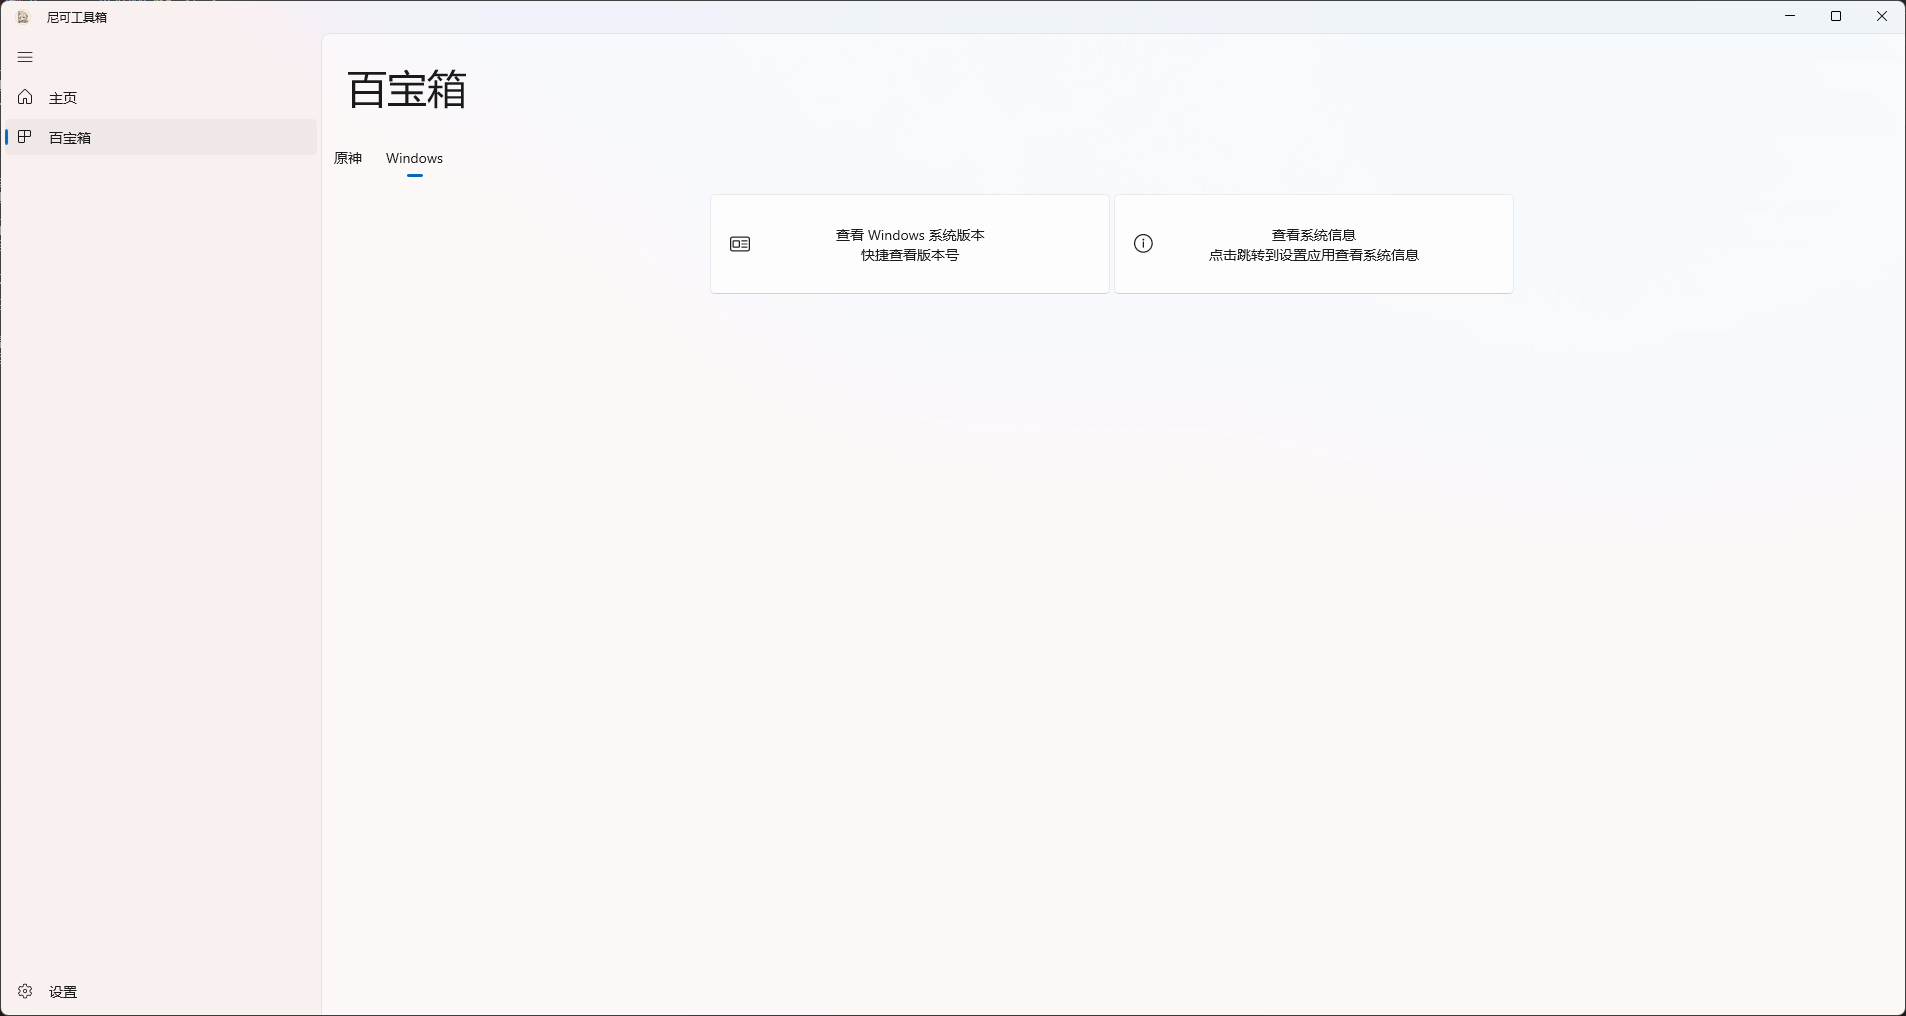
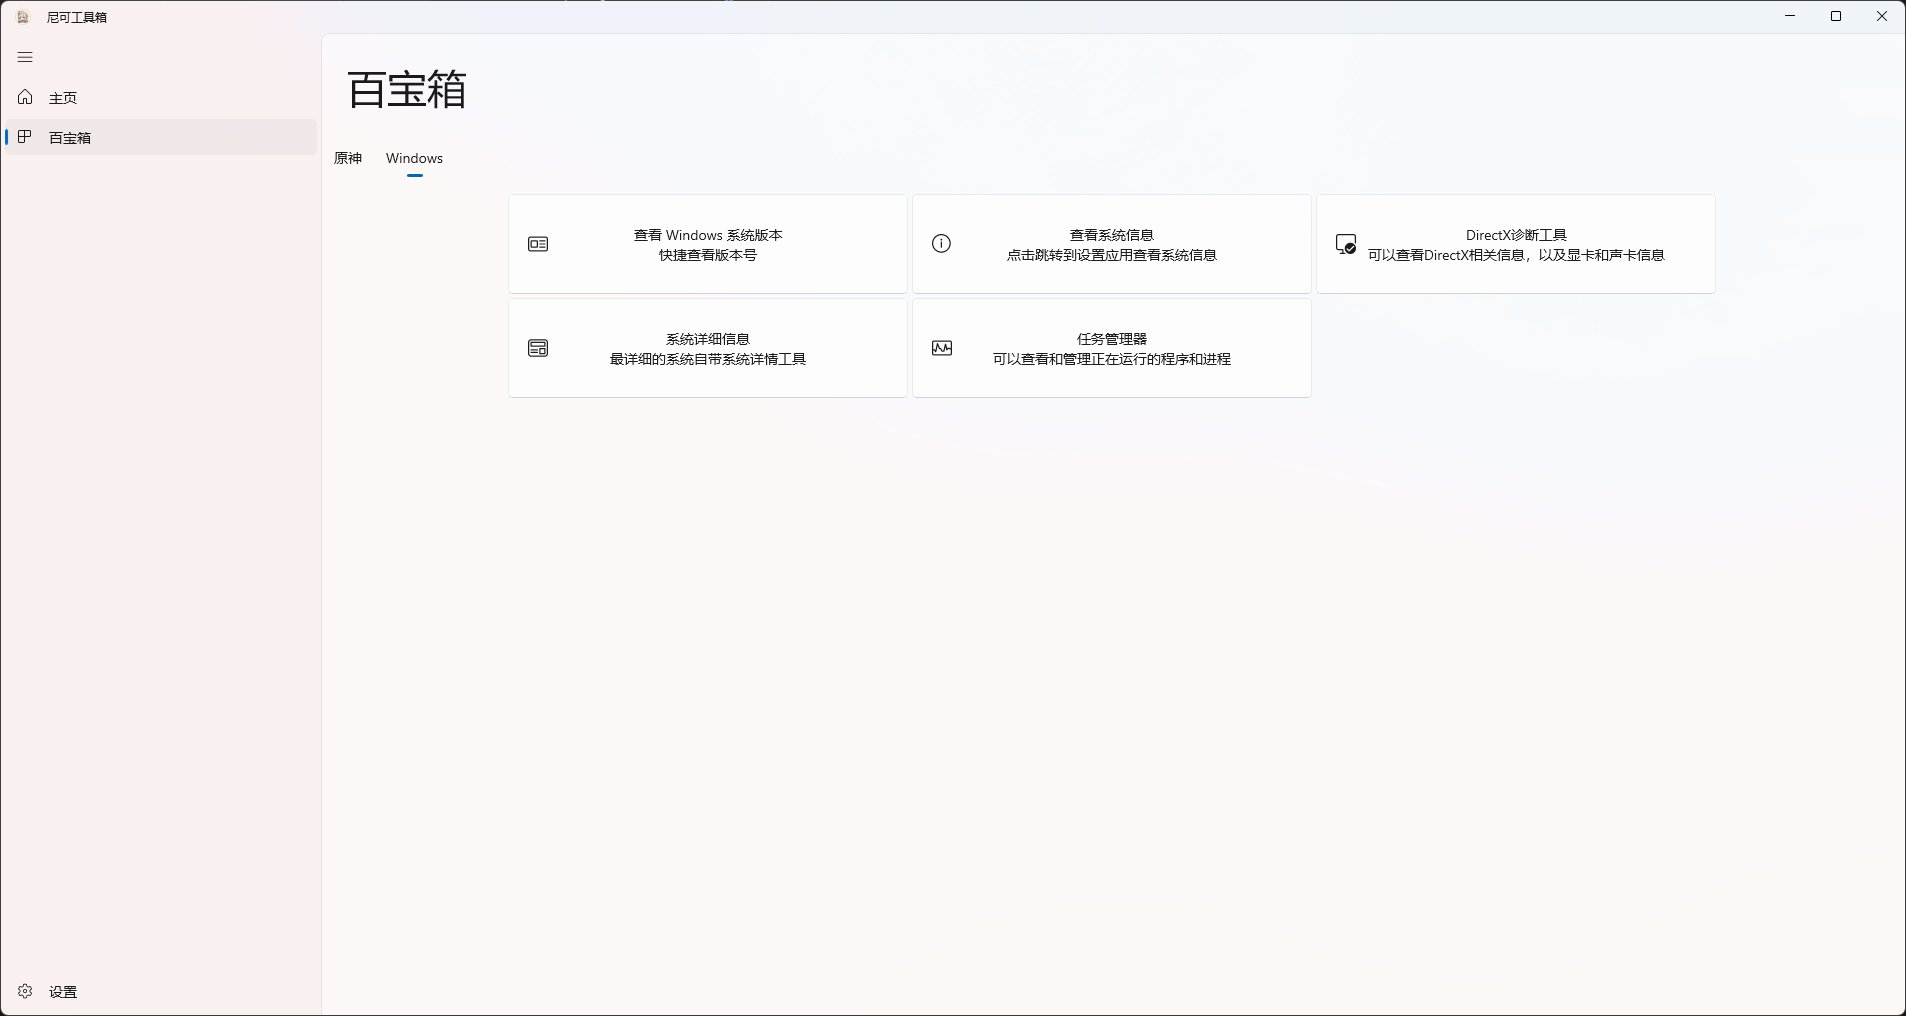
百宝箱加了几个Windows工具

diff --git a/Pages/WebToolsPage.xaml b/Pages/WebToolsPage.xaml
@@ -65,6 +65,27 @@
                             <TextBlock Text="点击跳转到设置应用查看系统信息" HorizontalAlignment="Center" VerticalAlignment="Center" Margin="0,20,0,0"/>
                         </Grid>
                     </Button>
+                    <Button Width="400" Height="100" Click="dxdiag">
+                        <Grid Width="360" Height="60" VerticalAlignment="Center" HorizontalAlignment="Center">
+                            <FontIcon Glyph="&#xEC77;" VerticalAlignment="Center" HorizontalAlignment="Left"/>
+                            <TextBlock Text="DirectX诊断工具" HorizontalAlignment="Center" VerticalAlignment="Center" Margin="0,-20,0,0"/>
+                            <TextBlock Text="可以查看DirectX相关信息，以及显卡和声卡信息" HorizontalAlignment="Center" VerticalAlignment="Center" Margin="0,20,0,0"/>
+                        </Grid>
+                    </Button>
+                    <Button Width="400" Height="100" Click="msinfo32">
+                        <Grid Width="360" Height="60" VerticalAlignment="Center" HorizontalAlignment="Center">
+                            <FontIcon Glyph="&#xE8A1;" VerticalAlignment="Center" HorizontalAlignment="Left"/>
+                            <TextBlock Text="系统详细信息" HorizontalAlignment="Center" VerticalAlignment="Center" Margin="0,-20,0,0"/>
+                            <TextBlock Text="最详细的系统自带系统详情工具" HorizontalAlignment="Center" VerticalAlignment="Center" Margin="0,20,0,0"/>
+                        </Grid>
+                    </Button>
+                    <Button Width="400" Height="100" Click="taskmgr">
+                        <Grid Width="360" Height="60" VerticalAlignment="Center" HorizontalAlignment="Center">
+                            <FontIcon Glyph="&#xF120;" VerticalAlignment="Center" HorizontalAlignment="Left"/>
+                            <TextBlock Text="任务管理器" HorizontalAlignment="Center" VerticalAlignment="Center" Margin="0,-20,0,0"/>
+                            <TextBlock Text="可以查看和管理正在运行的程序和进程" HorizontalAlignment="Center" VerticalAlignment="Center" Margin="0,20,0,0"/>
+                        </Grid>
+                    </Button>
                 </GridView>
             </ScrollViewer>
         </Grid>

diff --git a/Pages/WebToolsPage.xaml.cs b/Pages/WebToolsPage.xaml.cs
@@ -50,6 +50,7 @@ namespace NicoleToolbox.Pages
             }
         }
 
+        // 原神工具
         private void Map(object sender, RoutedEventArgs e)
         {
             GIMapWindow mapWindow = new GIMapWindow();
@@ -71,14 +72,30 @@ namespace NicoleToolbox.Pages
             Process.Start("explorer.exe","https://baike.mihoyo.com/ys/obc");
         }
 
+        // Windows工具
         private void winver(object sender, RoutedEventArgs e)
         {
-            Process.Start("winver.exe");
+            Process.Start("explorer.exe", "C:\\Windows\\System32\\winver.exe");
         }
 
         private void systeminfo(object sender, RoutedEventArgs e)
         {
             Process.Start("explorer.exe", "ms-settings:about");
+        }
+
+        private void dxdiag(object sender, RoutedEventArgs e)
+        {
+            Process.Start("explorer.exe", "C:\\Windows\\System32\\dxdiag.exe");
+        }
+
+        private void msinfo32(object sender, RoutedEventArgs e)
+        {
+            Process.Start("explorer.exe", "C:\\Windows\\System32\\msinfo32.exe");
+        }
+
+        private void taskmgr(object sender, RoutedEventArgs e)
+        {
+            Process.Start("explorer.exe", "C:\\Windows\\System32\\Taskmgr.exe");
         }
     }
 }